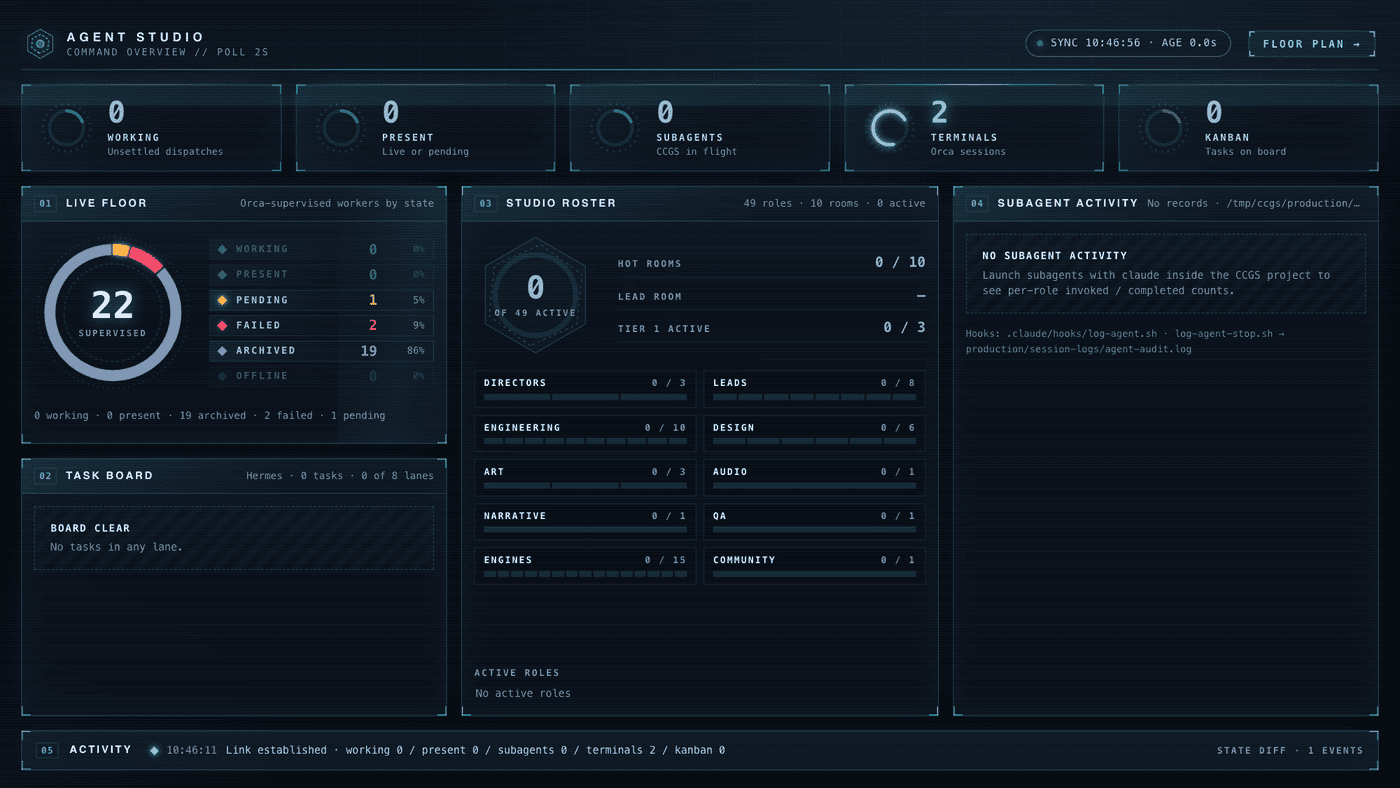
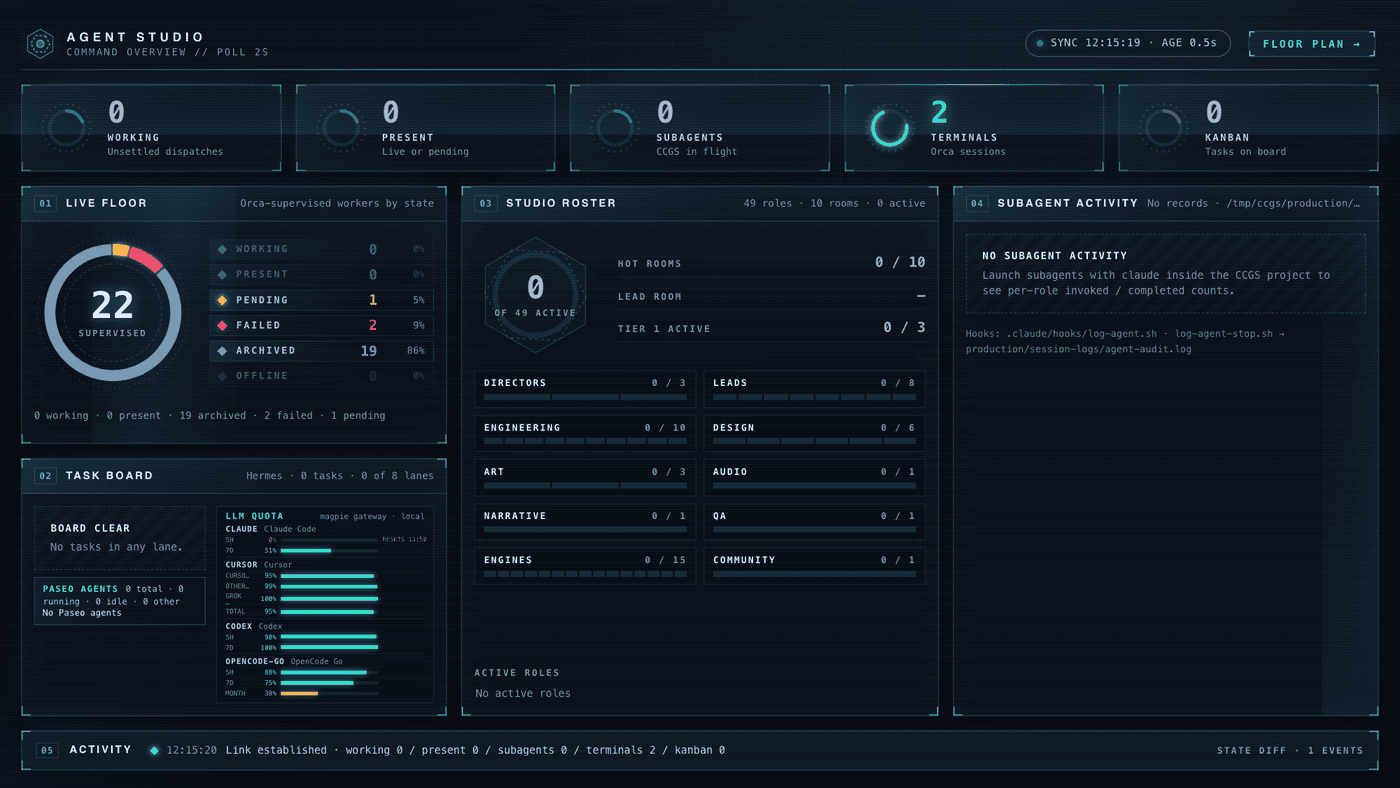
LLM quota panel, Paseo role matching, remote-control runbook
Code-developed by codex-dev (@codex -> magpie/codex/gpt-6-luna); reviewed, fixed
and verified here.

server.ts:
- collect() also reads the local magpie gateway quota API over HTTP (no CLI spawn,
  3s timeout, failure yields an empty list); StudioState gains quotas: QuotaView[]
- reviewer fix: round used/remaining at the boundary — cursor reports fractional
  percentages (95.24888888888889) and the panel rendered every digit

index.html:
- LLM QUOTA panel (#quota) inside the Task Board column: per account, per window,
  remaining % bar with thresholds (>=50 teal, 20-49 amber, <20 red) and RESETS hh:mm
  when a window is empty; GATEWAY UNREACHABLE when the gateway is down

floor.html:
- Paseo agent names now feed activeRoles(), so a Paseo agent titled 'qa-tester: ...'
  lights the qa room like an Orca worker does; matched bay rows get .role-active

docs/REMOTE-CONTROL.md:
- runbook for driving this machine from an iPhone: Paseo mobile pairing (incl. the
  'restart the daemon to resolve providers' trap), SSH + tmux for driving omp itself
  (Remote Login is off; Tailscale not installed), the studio pages over LAN, the hermes
  gateway, quota routing, and the security notes (never port-forward 8787)

Verified: both inline scripts pass node --check; /state.quotas returns 4 accounts with
integer percentages (claude 5h 0%); panel renders without scroll or clipping at
1600x900, 17 hooks intact, zero CJK, no console errors.

diff --git a/index.html b/index.html
@@ -113,6 +113,30 @@
   .ph em{margin-left:auto;min-width:0;font:normal 11.5px/1.3 var(--mono);color:var(--muted);text-align:right;
     overflow:hidden;text-overflow:ellipsis;white-space:nowrap}
   .pb{flex:1;min-height:0;padding:14px;overflow:hidden}
+.board-grid{display:grid;grid-template-columns:minmax(0,.88fr) minmax(0,1.12fr);gap:12px;height:100%;min-height:0}
+.lane-column{min-width:0;min-height:0;overflow:hidden}
+.quota-panel{min-width:0;min-height:0;padding:6px 10px;border:1px solid rgba(77,214,255,.12);background:rgba(7,11,19,.45);overflow:hidden}
+.quota-head{display:flex;align-items:baseline;gap:8px;margin-bottom:4px}
+.quota-head b{font:600 10px/1 var(--mono);letter-spacing:.14em;color:var(--cyan)}
+.quota-head span{margin-left:auto;font:9px/1 var(--mono);color:var(--muted)}
+.quota-list{display:grid;gap:3px;min-height:0}
+.q-account{display:grid;gap:2px;padding-bottom:2px;border-bottom:1px solid rgba(77,214,255,.08)}
+.q-account:last-child{border-bottom:0}
+.q-ident{display:flex;gap:7px;min-width:0;font:9px/1.2 var(--mono)}
+.q-ident b{flex:none;color:#c4d3e6;letter-spacing:.08em}
+.q-ident span{min-width:0;overflow:hidden;text-overflow:ellipsis;white-space:nowrap;color:var(--muted)}
+.q-windows{display:grid;gap:2px}
+.q-window{display:grid;grid-template-columns:25px 28px minmax(0,1fr) 48px;align-items:center;gap:5px;min-height:10px;font:7.5px/1 var(--mono);font-variant-numeric:tabular-nums}
+.q-window .q-name{color:var(--muted);text-transform:uppercase}
+.q-window .q-pct{color:var(--q-color);text-align:right}
+.q-bar{height:4px;background:rgba(77,214,255,.1)}
+.q-bar i{display:block;height:100%;width:var(--remaining);background:var(--q-color);box-shadow:0 0 6px color-mix(in srgb,var(--q-color) 65%,transparent)}
+.q-window[data-level=teal]{--q-color:var(--teal)}
+.q-window[data-level=amber]{--q-color:var(--amber)}
+.q-window[data-level=red]{--q-color:var(--alert)}
+.q-reset{color:var(--q-color);white-space:nowrap;text-align:right;font-size:7px}
+.quota-empty{padding:12px 4px;color:var(--alert);font:600 9px/1.4 var(--mono);letter-spacing:.1em}
+
   .stack{display:flex;flex-direction:column;gap:16px;min-height:0}
   .lbl{display:block;font:600 10.5px/1 var(--mono);letter-spacing:.18em;color:var(--muted);text-transform:uppercase}
 
@@ -331,7 +355,13 @@
 
     <section class="panel p-board" style="--d:-4s" aria-labelledby="h-board">
       <div class="ph"><b>02</b><h2 id="h-board">Task Board</h2><em id="kb-note">Hermes persistent kanban</em></div>
-      <div class="pb"><div id="lanes"></div><div class="paseo-summary" id="paseo-summary"><strong>PASEO AGENTS</strong><span class="paseo-counts"></span><span class="paseo-names">No Paseo agents</span></div></div>
+      <div class="pb board-grid">
+        <div class="lane-column"><div id="lanes"></div><div class="paseo-summary" id="paseo-summary"><strong>PASEO AGENTS</strong><span class="paseo-counts"></span><span class="paseo-names">No Paseo agents</span></div></div>
+        <section class="quota-panel" aria-labelledby="quota-title">
+          <div class="quota-head"><b id="quota-title">LLM QUOTA</b><span>magpie gateway · local</span></div>
+          <div id="quota" class="quota-list"><div class="quota-empty">GATEWAY UNREACHABLE</div></div>
+        </section>
+      </div>
     </section>
 
     <section class="panel p-roster" style="--d:-8s" aria-labelledby="h-roster">
@@ -404,6 +434,57 @@ const chip = (name, cls, title) => {
   c.appendChild(edge);
   return c;
 };
+const quotaWindowLabel = (name) => {
+  const value = (name || "—").toLowerCase();
+  if (value.includes("5 hour")) return "5H";
+  if (value.includes("7 day")) return "7D";
+  if (value.includes("hour")) return value.replace(/\s*hours?/, "H").toUpperCase();
+  if (value.includes("day")) return value.replace(/\s*days?/, "D").toUpperCase();
+  return short(name || "—", 5).toUpperCase();
+};
+const quotaResetLabel = (value) => {
+  const date = value ? new Date(value) : null;
+  if (!date || Number.isNaN(date.getTime())) return "RESETS —";
+  const now = new Date();
+  const sameDay = date.getFullYear() === now.getFullYear() && date.getMonth() === now.getMonth() && date.getDate() === now.getDate();
+  const reset = sameDay
+    ? date.toLocaleTimeString([], { hour: "2-digit", minute: "2-digit", hour12: false })
+    : `${String(date.getMonth() + 1).padStart(2, "0")}-${String(date.getDate()).padStart(2, "0")}`;
+  return `RESETS ${reset}`;
+};
+function renderQuotas(quotas) {
+  const root = document.getElementById("quota");
+  root.textContent = "";
+  if (!Array.isArray(quotas) || !quotas.length) {
+    root.appendChild(el("div", "quota-empty", "GATEWAY UNREACHABLE"));
+    return;
+  }
+  for (const quota of quotas) {
+    const account = el("div", "q-account");
+    const identity = el("div", "q-ident");
+    identity.appendChild(el("b", null, (quota.provider || "UNKNOWN").toUpperCase()));
+    identity.appendChild(el("span", null, short(quota.name || quota.user || "Unnamed account", 18)));
+    account.appendChild(identity);
+    const windows = el("div", "q-windows");
+    for (const window of quota.windows || []) {
+      const remaining = Number.isFinite(window.remaining) ? Math.max(0, Math.min(100, window.remaining)) : null;
+      const row = el("div", "q-window");
+      row.dataset.level = remaining === null || remaining >= 50 ? "teal" : remaining >= 20 ? "amber" : "red";
+      row.appendChild(el("span", "q-name", quotaWindowLabel(window.name)));
+      row.appendChild(el("span", "q-pct", remaining === null ? "—" : `${remaining}%`));
+      const bar = el("div", "q-bar");
+      const fill = el("i");
+      fill.style.setProperty("--remaining", `${remaining ?? 0}%`);
+      bar.appendChild(fill);
+      row.appendChild(bar);
+      row.appendChild(el("span", "q-reset", window.remaining === 0 ? quotaResetLabel(window.resetsAt) : ""));
+      windows.appendChild(row);
+    }
+    account.appendChild(windows);
+    root.appendChild(account);
+  }
+}
+
 
 // Present = terminal still alive; working = not yet settled.
 const isPresent = (w) => w.liveness === "live" || w.dispatchStatus === "pending";
@@ -490,6 +571,7 @@ function render(state) {
   paseoSummary.querySelector(".paseo-names").textContent = paseo.length
     ? paseo.slice(0, 3).map(agent => short(agent.name || "Unnamed agent", 24)).join(" · ")
     : "No Paseo agents";
+  renderQuotas(state.quotas);
 
   if (!seeded) {
     seeded = true;

diff --git a/server.ts b/server.ts
@@ -10,10 +10,10 @@
 //
 // Run: bun run server.ts      (env: PORT, ORCA_COORDINATOR, CCGS_ROOT, AGENT_STUDIO_AUDIT)
 //
-// Every /state read spawns 6 CLI processes (~1 s each; hermes is a Python start-up). Several browser
-// tabs polling every 2 s therefore used to queue behind each other and the pages sat on
-// "Connecting…". Collects are now shared across clients: one collect per TTL, concurrent callers
-// join the in-flight promise.
+// Every /state read spawns 6 CLI processes (~1 s each; hermes is a Python start-up) and performs
+// one local HTTP quota fetch. Several browser tabs polling every 2 s therefore previously queued
+// behind each other, leaving pages on "Connecting…". Collects are shared across clients: one per TTL;
+// concurrent callers join the in-flight promise.
 //
 // Boundary contract: every CLI/JSON shape below mirrors what the producer emits today.
 // Fields are optional because a producer may add or omit keys between versions; mapping
@@ -40,6 +40,16 @@ interface PaseoAgentView {
   cwd: string | null;
   created: string | null;
 }
+interface MagpieQuotaWindowRow { name?: string; used?: number; remaining?: number; resetsAt?: string }
+interface MagpieQuotaRow { provider?: string; name?: string; kind?: string; user?: string; windows?: MagpieQuotaWindowRow[] }
+interface QuotaView {
+  provider: string | null;
+  name: string | null;
+  kind: string | null;
+  user: string | null;
+  windows: { name: string | null; used: number | null; remaining: number | null; resetsAt: string | null }[];
+}
+
 
 const DIR = import.meta.dir;
 const PORT = Number(process.env.PORT ?? 8787);
@@ -100,10 +110,12 @@ interface StudioState {
   terminals: TerminalView[];
   worktrees: WorktreeView[];
   paseo: PaseoAgentView[];
+  quotas: QuotaView[];
   kanban: Record<string, unknown>[];
   kanbanStats: Record<string, number>;
   audit: { source: string | null; events: AuditEvent[]; agents: AgentActivity[] };
 }
+
 
 /** JSON.parse that yields `unknown` instead of throwing (every CLI read shares it). */
 function readJson(raw: string): unknown {
@@ -177,14 +189,19 @@ function auditLogPath(): string | null {
 async function collect(): Promise<StudioState> {
   const coordinator = process.env.ORCA_COORDINATOR;
   // `hermes kanban stats` is deliberately not spawned: lane counts are derived from `list`.
-  const [workersRaw, terminalsRaw, worktreesRaw, kanbanRaw, tasksRaw, paseoRaw] = await Promise.all([
+  // Magpie quotas use local HTTP and do not add a CLI spawn.
+  const [workersRaw, terminalsRaw, worktreesRaw, kanbanRaw, tasksRaw, paseoRaw, quotasRaw] = await Promise.all([
     run(["orca", "orchestration", "worker-list", "--include-remote", "--json"]),
     run(["orca", "terminal", "list", "--json"]),
     run(["orca", "worktree", "list", "--json"]),
     run(["hermes", "kanban", "list", "--json"]),
     coordinator ? run(["orca", "orchestration", "task-list", "--from", coordinator, "--json"]) : Promise.resolve(""),
     run(["paseo", "ls", "--json"]),
+    fetch("http://127.0.0.1:3425/v1/magpie/quotas", { signal: AbortSignal.timeout(3000) })
+      .then((response) => response.ok ? response.text() : "")
+      .catch(() => ""),
   ]);
+
 
   const workerRows = (readJson(workersRaw) as { result?: { workers?: OrcaWorkerRow[] } } | null)?.result?.workers ?? [];
   const terminalRows = (readJson(terminalsRaw) as { result?: { terminals?: OrcaTerminalRow[] } } | null)?.result?.terminals ?? [];
@@ -192,6 +209,22 @@ async function collect(): Promise<StudioState> {
   const taskRows = (readJson(tasksRaw) as { result?: { tasks?: OrcaTaskRow[] } } | null)?.result?.tasks ?? [];
   const paseoParsed = readJson(paseoRaw);
   const paseoRows = Array.isArray(paseoParsed) ? paseoParsed as PaseoAgentRow[] : [];
+  const quotasParsed = readJson(quotasRaw) as { data?: MagpieQuotaRow[] } | null;
+  const quotas: QuotaView[] = Array.isArray(quotasParsed?.data) ? quotasParsed.data.map((quota) => ({
+    provider: quota.provider ?? null,
+    name: quota.name ?? null,
+    kind: quota.kind ?? null,
+    user: quota.user ?? null,
+    windows: (quota.windows ?? []).map((window) => ({
+      name: window.name ?? null,
+      // Some providers report fractional percentages (cursor: 95.24888888888889);
+      // round at the boundary so every consumer renders an integer.
+      used: window.used == null ? null : Math.round(window.used),
+      remaining: window.remaining == null ? null : Math.round(window.remaining),
+      resetsAt: window.resetsAt ?? null,
+    })),
+  })) : [];
+
   const kanbanParsed = readJson(kanbanRaw) as Record<string, unknown>[] | { tasks?: Record<string, unknown>[] } | null;
   const kanban = Array.isArray(kanbanParsed) ? kanbanParsed : (kanbanParsed?.tasks ?? []);
 
@@ -264,10 +297,10 @@ async function collect(): Promise<StudioState> {
     audit = { source: auditPath, events: events.slice(-40), agents: summarizeAudit(events) };
   }
 
-  return { ts: Date.now(), workers, terminals, worktrees, paseo, kanban, kanbanStats, audit };
+  return { ts: Date.now(), workers, terminals, worktrees, paseo, quotas, kanban, kanbanStats, audit };
 }
 
-// One collect (six CLI spawns) per TTL, shared by every client; concurrent callers join the in-flight promise.
+// One collect (six CLI spawns plus local HTTP) per TTL, shared by every client; concurrent callers join the in-flight promise.
 let cached: { at: number; data: StudioState } | null = null;
 let inflight: Promise<StudioState> | null = null;
 

diff --git a/floor.html b/floor.html
@@ -143,6 +143,9 @@
   .paseoAgent[data-status="idle"] .paseoDot{fill:var(--cyan)}
   .paseoAgent[data-status="error"] .paseoDot,.paseoAgent[data-status="failed"] .paseoDot{fill:var(--alert)}
   .paseoEmpty{fill:var(--muted);font:5.5px var(--mono);letter-spacing:.04em}
+.paseoAgent.role-active .paseoDot{fill:var(--teal);filter:drop-shadow(0 0 2px var(--teal));animation:pulse 1.4s ease-in-out infinite}
+.paseoAgent.role-active .paseoName{fill:var(--teal)}
+
   .taskWallRow .taskWallLabel,.taskWallRow .taskWallCount{fill:var(--cyan)}
   .exit{fill:var(--teal);font:700 7.5px var(--mono);letter-spacing:.12em}
   .bubble{fill:rgba(7,13,23,.92);stroke:var(--hair)}
@@ -454,6 +457,10 @@ function activeRoles() {
     const blob = [w.taskTitle, w.taskSpec, w.label, w.worktreeName, w.agent].filter(Boolean).join(" ").toLowerCase();
     for (const a of roster.agents) if (blob.includes(a.name.toLowerCase())) hits.add(a.name);
   }
+  for (const agent of state.paseo || []) {
+    const blob = (agent.name || "").toLowerCase();
+    for (const role of roster.agents) if (blob.includes(role.name.toLowerCase())) hits.add(role.name);
+  }
   return hits;
 }
 
@@ -629,7 +636,7 @@ function updateTaskWall() {
     rows.appendChild(row);
   });
 }
-function updatePaseoBay() {
+function updatePaseoBay(hits) {
   const bay = document.getElementById("paseobay"), rows = bay.querySelector(".paseoRows"), agents = state.paseo || [];
   rows.textContent = "";
   bay.querySelector('[data-meta="paseo"]').textContent = String(agents.length);
@@ -639,7 +646,8 @@ function updatePaseoBay() {
   }
   agents.slice(0, 6).forEach((agent, i) => {
     const y = 768 + i * 4.8, status = (agent.status || "other").toLowerCase();
-    const row = mk("g", { class: "paseoAgent", "data-status": status });
+    const matched = roster.agents.some((role) => hits.has(role.name) && (agent.name || "").toLowerCase().includes(role.name.toLowerCase()));
+    const row = mk("g", { class: "paseoAgent" + (matched ? " role-active" : ""), "data-status": status });
     row.appendChild(mk("circle", { class: "paseoDot", cx: 799, cy: y - 1.7, r: 1.7 }));
     row.appendChild(mk("text", { class: "paseoName", x: 804, y }, clip(agent.name || "Unnamed agent", 20)));
     row.appendChild(mk("text", { class: "paseoProvider", x: 916, y, "text-anchor": "end" }, clip(agent.provider || "—", 12)));
@@ -651,7 +659,7 @@ function paint(st) {
   state = st;
   updateTaskWall();
   const hits = activeRoles();
-  updatePaseoBay();
+  updatePaseoBay(hits);
   const svg = document.getElementById("plan"), zl = document.getElementById("zoom"), vis = document.getElementById("vis");
 
   for (const w of svg.querySelectorAll(".worker[data-role]")) {

diff --git a/docs/REMOTE-CONTROL.md b/docs/REMOTE-CONTROL.md
@@ -1,0 +1,116 @@
+# Remote control from a phone
+
+Four ways to drive the agents on this machine from an iPhone, in the order most people want them.
+Facts below were measured on this Mac (2026-10-18); commands are copy-pasteable.
+
+## 1. Paseo mobile app — drive agents (recommended)
+
+The Paseo daemon runs on this machine and relays to the phone; the phone app is
+**Paseo Pocket Engineer** (App Store / Play Store).
+
+```bash
+paseo status              # daemon health, listen address, version
+paseo pair                # prints the pairing QR code / link — scan it with the app
+paseo ls                  # agents, from the CLI
+paseo provider ls         # which agent CLIs the daemon can currently launch
+```
+
+Measured state on this machine: daemon v0.11.2 on `127.0.0.1:6767`, `relay.enabled: true`,
+push subscription valid, and providers **claude / codex / opencode / pi** available.
+`omp` shows as *unavailable*: Paseo gates it on a Bun runtime it can locate, and its
+diagnostic still reports `Bun runtime: unavailable` even with Bun 1.4.3 on the login-shell
+`PATH` — enable it under **Settings → host → Providers → OMP** and re-read the diagnostic
+before relying on it.
+
+Rules that matter in practice:
+
+- **Provider changes need a daemon restart to resolve.** Installing a CLI is not enough:
+  `codex` and `opencode` stayed `unavailable` until `paseo daemon restart`.
+- **Quota is shared with everything else on this machine.** Prefer `codex` or `opencode`
+  from the phone; reserve `claude` for planning/design. A Claude 5-hour window that is
+  exhausted makes `--agent claude` workers sit in a 429 retry loop.
+- Agents launched from the phone appear in this repo's studio pages (PASEO BAY on the 1F
+  plate, LLM QUOTA and PASEO AGENTS panels on the overview).
+
+## 2. SSH + tmux — drive OMP itself
+
+Paseo drives *agent CLIs*; to drive **omp** (TUI, sessions, its own subagents) from the
+phone, use SSH into this Mac with tmux so a dropped connection does not kill the session.
+
+```bash
+# On the Mac: turn on Remote Login (needs admin; not enabled as of 2026-10-18)
+sudo systemsetup -setremotelogin on
+# then verify
+lsof -nP -iTCP:22 -sTCP:LISTEN
+```
+
+On the phone, install an SSH client (Blink, Termius, …) and:
+
+```bash
+ssh vincent@<mac-address>
+tmux new -As omp        # first time
+tmux attach -t omp      # after a disconnect
+# inside tmux:
+omp
+```
+
+Outside the home network this needs a way to reach the Mac. **Tailscale is not installed**
+here; `brew install --cask tailscale` plus signing in on both devices gives a stable
+`100.x.y.z` address with no port forwarding. (Paseo's relay is an alternative for agents,
+but it does not give you a shell.)
+
+## 3. Studio pages — watch, from any browser
+
+The studio server listens on all interfaces (`*:8787`), so a phone on the same Wi-Fi can
+open it directly:
+
+```
+http://<mac-lan-ip>:8787/        # command overview
+http://<mac-lan-ip>:8787/floor   # studio tower
+```
+
+Measured: `http://192.168.1.63:8787/` → 200. The pages are a fixed 1600×900 stage that
+scales to the viewport, so they read fine on a phone in landscape.
+
+For access from cellular, put the Mac (or just this port) behind Tailscale or a reverse
+proxy. **Do not port-forward 8787 to the internet**: it is an unauthenticated read-only
+view of your agent fleet, but it also names repositories, task titles and account emails.
+
+## 4. Hermes gateway — chat-app control
+
+The hermes gateway is already connected to **Feishu / WeChat**, so a message from the phone
+drives the hermes agent on this machine (which can run shell commands and spawn work).
+
+```bash
+hermes status              # gateway + connected platforms
+hermes gateway restart     # after config changes
+```
+
+This controls *hermes*, not omp; use it for "tell the machine to do X" rather than for
+interactive coding.
+
+## Quota routing (learned the hard way)
+
+| Account | Where it is spent | Guidance |
+|---|---|---|
+| Claude Pro (5h / 7d windows) | omp `@plan`/`@review`, Orca `--agent claude`, Paseo `claude` | scarcest — design, planning, review only |
+| Codex (ChatGPT Plus) | omp `@codex`, Orca `--agent codex`, Paseo `codex` | default for implementation work |
+| opencode-go | omp `@code`, Orca `--agent opencode` | cheap high-frequency calls |
+| Cursor | Paseo `cursor` | separate budget, largely unused |
+
+Check the live numbers any time:
+
+```bash
+curl -s http://127.0.0.1:3425/v1/magpie/quotas | python3 -m json.tool
+```
+
+omp already falls back automatically (`plan`/`review` → codex → opencode-go); **Orca and
+Paseo do not** — pick the provider deliberately when you launch.
+
+## Security notes
+
+- `paseo pair` prints a pairing secret. Treat the QR/link like a password; do not paste it
+  into chat logs or issues.
+- The studio pages have no authentication. Keep them on LAN/Tailscale, never on a public port.
+- `docs/*.png` screenshots in this repo are redacted (repository names and local paths
+  replaced) before commit; keep that habit when adding new ones.
